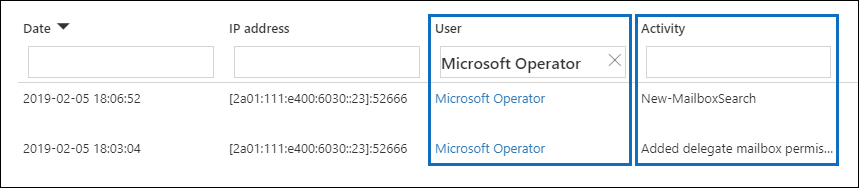
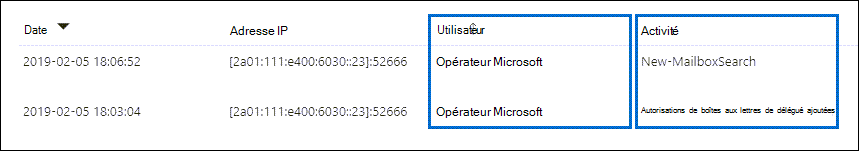
commit translated contents

diff --git a/microsoft-365/security/defender-endpoint/run-analyzer-macos-linux.md b/microsoft-365/security/defender-endpoint/run-analyzer-macos-linux.md
@@ -18,24 +18,24 @@ ms.collection:
 - m365initiative-m365-defender
 ms.topic: conceptual
 ms.technology: m365d
-ms.openlocfilehash: d91bae340db5e52d04bd0263068892065dd3eebd
-ms.sourcegitcommit: eb8c600d3298dca1940259998de61621e6505e69
+ms.openlocfilehash: e79ccf29695f0bc74c75cf12d617e273d974b24b
+ms.sourcegitcommit: 986ea76ecaceb5fe6b9616e553003e3c5b0df2e7
 ms.translationtype: MT
 ms.contentlocale: fr-FR
-ms.lasthandoff: 11/24/2021
-ms.locfileid: "61166661"
+ms.lasthandoff: 01/25/2022
+ms.locfileid: "62213684"
 ---
 # <a name="run-the-client-analyzer-on-macos-and-linux"></a>Exécuter l’analyse du client sur macOS ou Linux
 
-**S’applique à :**
-- [Microsoft Defender for Endpoint Plan 2](https://go.microsoft.com/fwlink/p/?linkid=2154037)
+**S’applique à :**
+- [Microsoft Defender pour point de terminaison Plan 2](https://go.microsoft.com/fwlink/p/?linkid=2154037)
 
 ## <a name="running-the-analyzer-through-gui-scenario"></a>Exécution de l’analyseur via un scénario d’interface graphique graphique
 
 1. Téléchargez [l’outil Analyseur client XMDE](https://aka.ms/XMDEClientAnalyzer) sur l’ordinateur macOS ou Linux que vous devez examiner.
 
    > [!NOTE]
[2 lines of base64/hex data omitted]
 
 2. Extrayez le contenu du XMDEClientAnalyzer.zip sur l’ordinateur.
 

diff --git a/microsoft-365/compliance/sit-edm-notifications-activities.md b/microsoft-365/compliance/sit-edm-notifications-activities.md
@@ -17,12 +17,12 @@ search.appverid:
 - MET150
 description: En savoir plus sur la création des notifications pour les activités de correspondance de données exactes.
 ms.custom: seo-marvel-apr2020
-ms.openlocfilehash: 1033b6cd84f84db65f49f95e008e20eada63ca64
-ms.sourcegitcommit: 8410a49995a084e4cc9b3f7286c8d506b7a85d79
+ms.openlocfilehash: e5f7c2a2d724a66aea1ce55658ff84e6e0da4738
+ms.sourcegitcommit: 39838c1a77d4e23df56af74059fb95970223f718
 ms.translationtype: HT
 ms.contentlocale: fr-FR
-ms.lasthandoff: 11/11/2021
-ms.locfileid: "60914595"
+ms.lasthandoff: 01/24/2022
+ms.locfileid: "62187388"
 ---
 # <a name="create-notifications-for-exact-data-match-activities"></a>Créer des notifications pour les activités de correspondance de données exactes
 
@@ -35,7 +35,7 @@ Lorsque vous [créez des types d’informations sensibles personnalisés avec co
 - UploadDataCompleted
 
 > [!NOTE]
- La possibilité de créer des notifications pour les activités de EDM n'est disponible que pour les clouds mondiaux et cloud de la communauté du secteur public.
+ La capacité de créer des notifications pour les activités de EDM n'est disponible que pour les clouds World Wide et de la communauté du secteur public (GCC) uniquement.
 
 ## <a name="pre-requisites"></a>Conditions préalables
 
